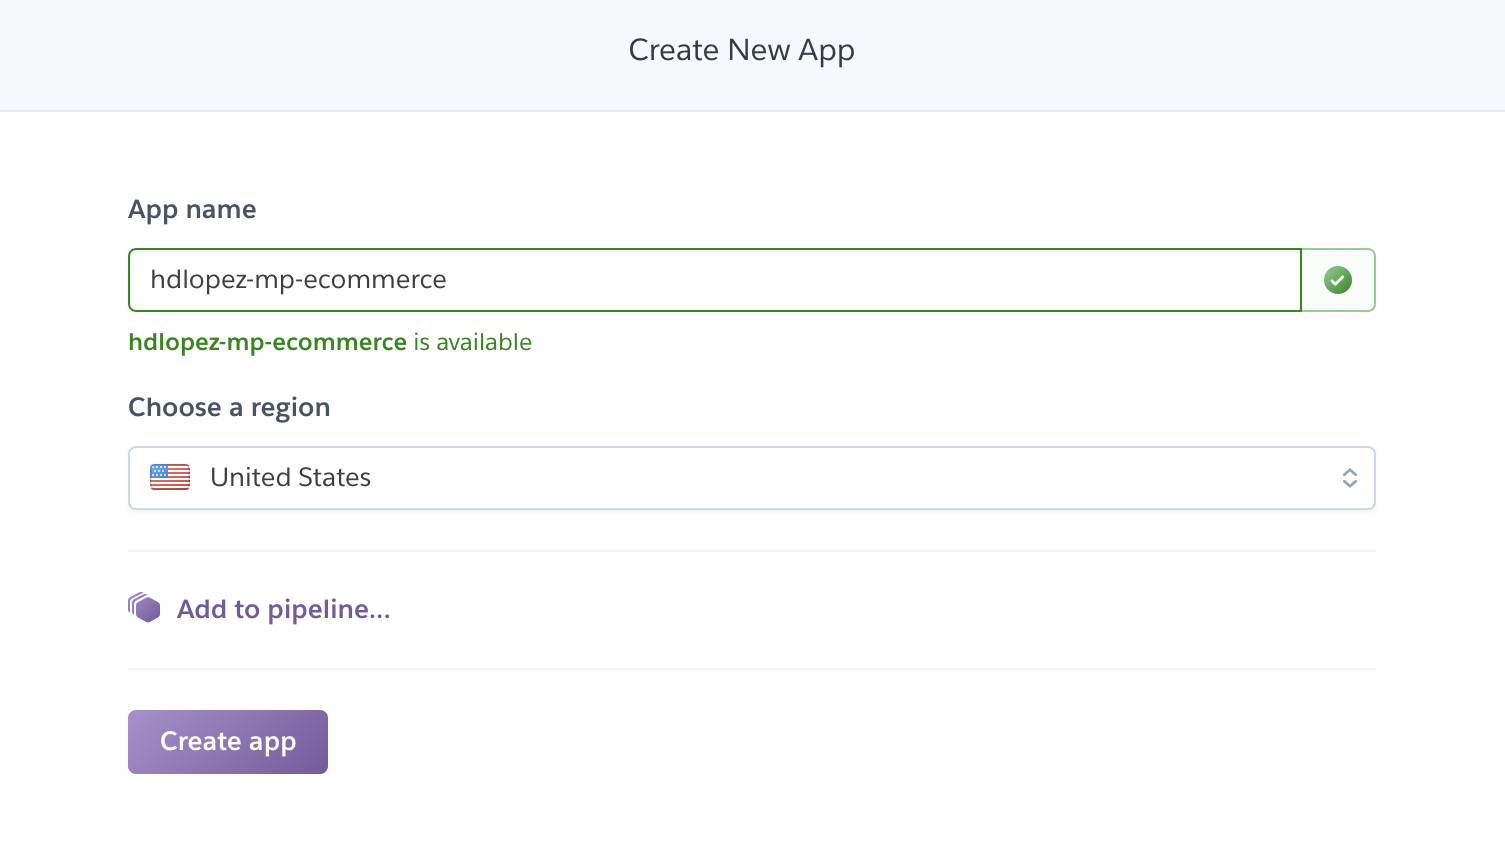
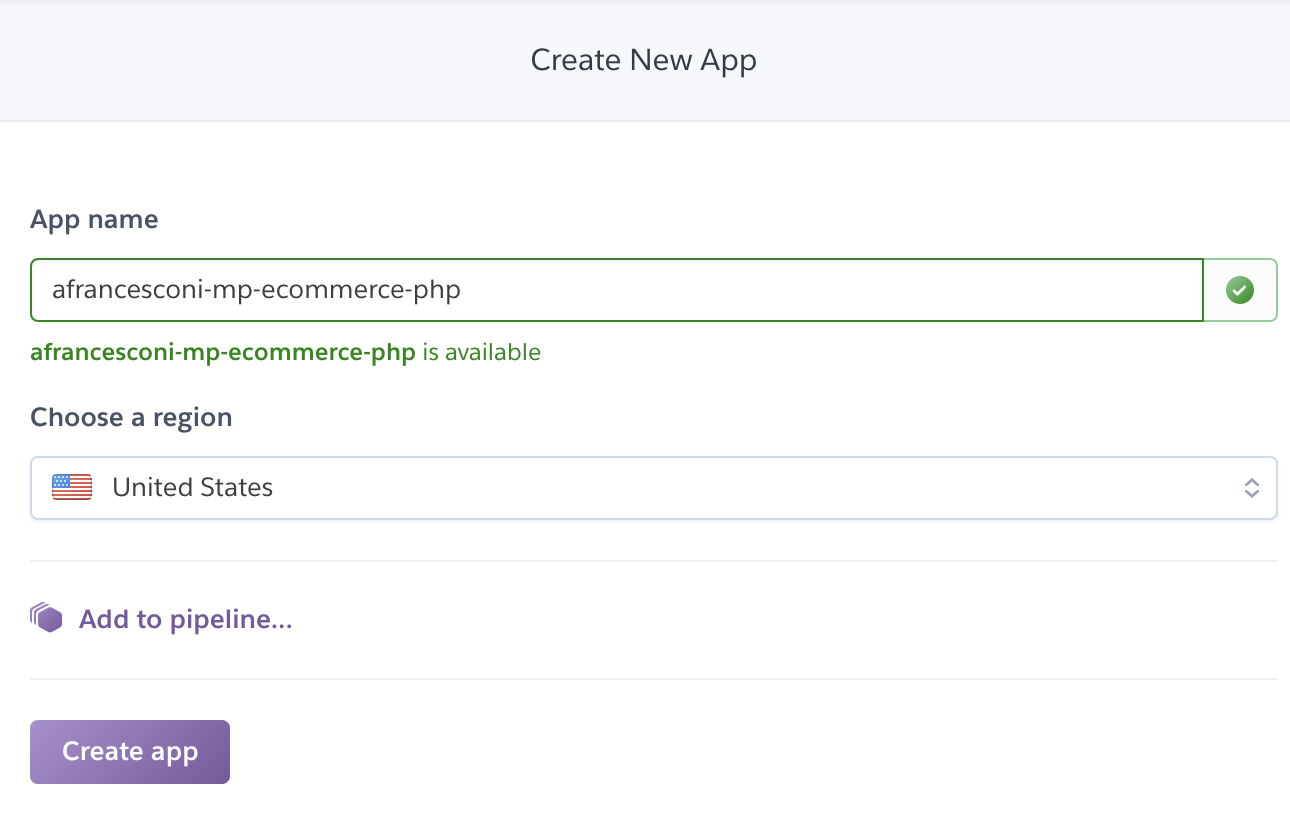
Add docs images

diff --git a/README.md b/README.md
@@ -1,6 +1,6 @@
 # mp-ecommerce
 
-Este e-commerce de ejemplo será la base para la integración de MercadoPago con `nodejs`.
+Este e-commerce de ejemplo será la base para la integración de MercadoPago con `php`.
 
 ## Antes de comenzar
 
@@ -12,9 +12,9 @@ Requisitos para realizar la integración:
 
 ## Haciendo pública mi e-commerce de ejemplo
 
-1. Realizar un fork de este proyecto. Considerando que tu usuario de GitHub es `username`, tendremos el repositorio https://github.com/username/mp-ecommerce
+1. Realizar un fork de este proyecto. Considerando que tu usuario de GitHub es `username`, tendremos el repositorio https://github.com/username/mp-ecommerce-php
 2. Ingresar a tu cuenta de Heroku
-3. Crear una aplicación en Heroku para realizar el deploy de nuestro e-commerce. Nombrarla de la siguiente manera *username*-mp-commerce. Ejemplo:
+3. Crear una aplicación en Heroku para realizar el deploy de nuestro e-commerce. Nombrarla de la siguiente manera *username*-mp-commerce-php. Ejemplo:
 <div style="text-align: center;" >
 <img src="docs/step0.png" width=400 />
 </div>
@@ -30,7 +30,7 @@ Requisitos para realizar la integración:
 <img src="docs/step2.png" width=800 />
 </div>
 
-6. Nuevamente considerando que tu usuario de GitHub es `username` (substituir en la URL por el correcto), acceder a https://username-mp-ecommerce.herokuapp.com/ y validar que la app esté corriendo. Deberás visualizar algo como lo siguiente
+6. Nuevamente considerando que tu usuario de GitHub es `username` (substituir en la URL por el correcto), acceder a https://username-mp-ecommerce-php.herokuapp.com/ y validar que la app esté corriendo. Deberás visualizar algo como lo siguiente
 
 <div style="text-align: center;" >
 <img src="docs/step3.png" width=800 />
